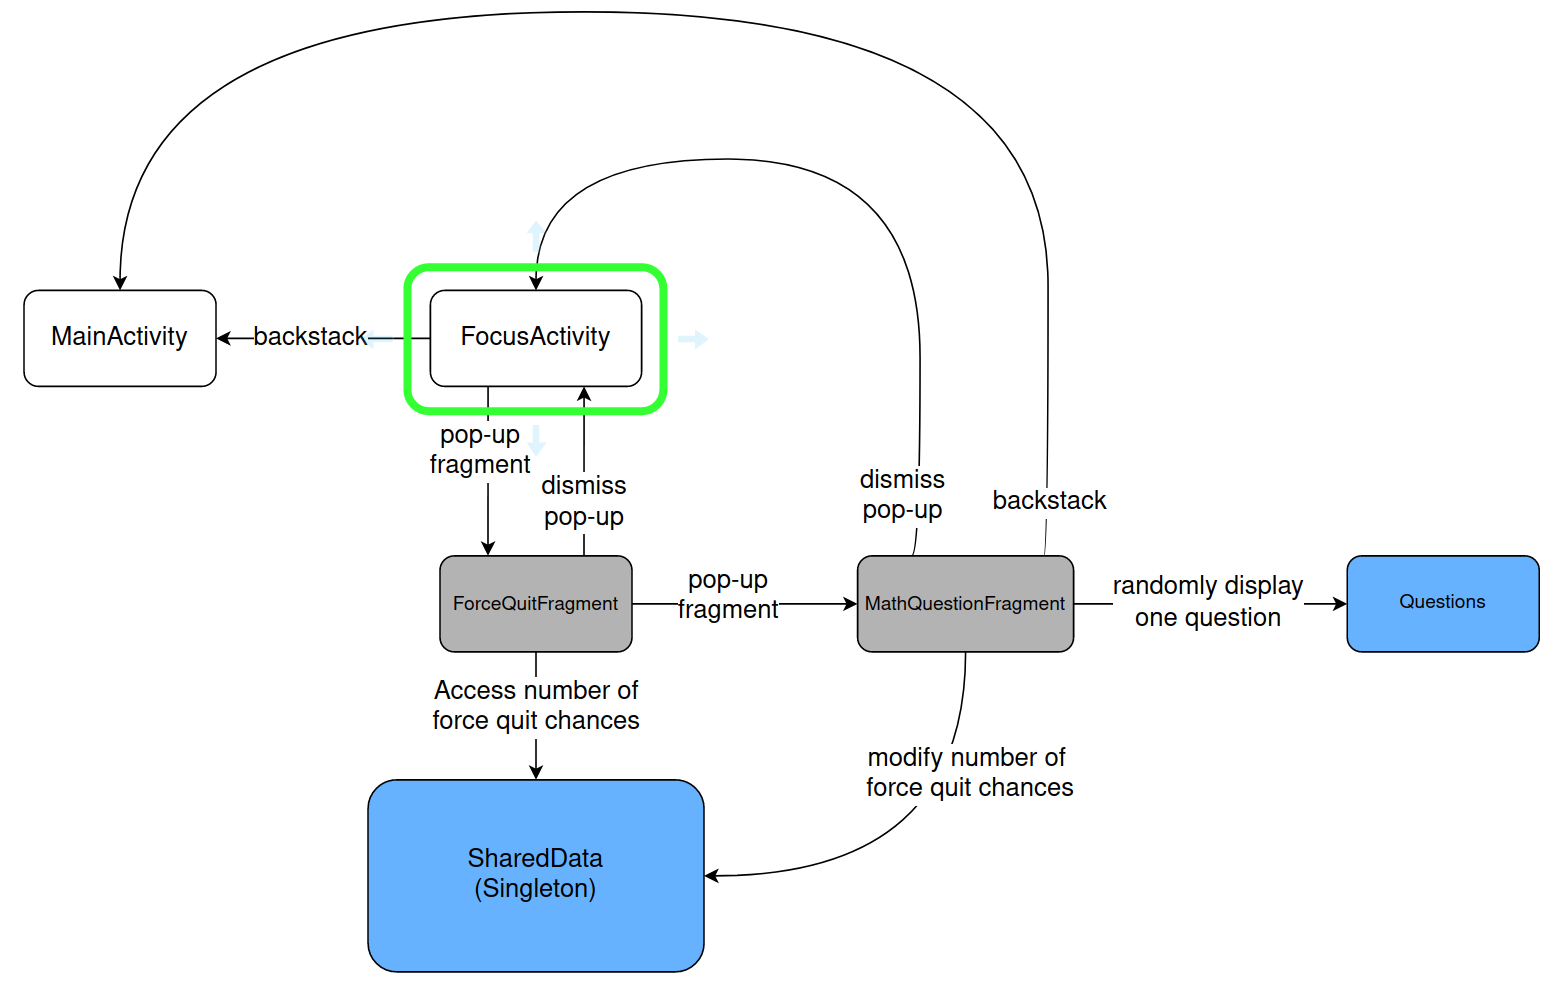
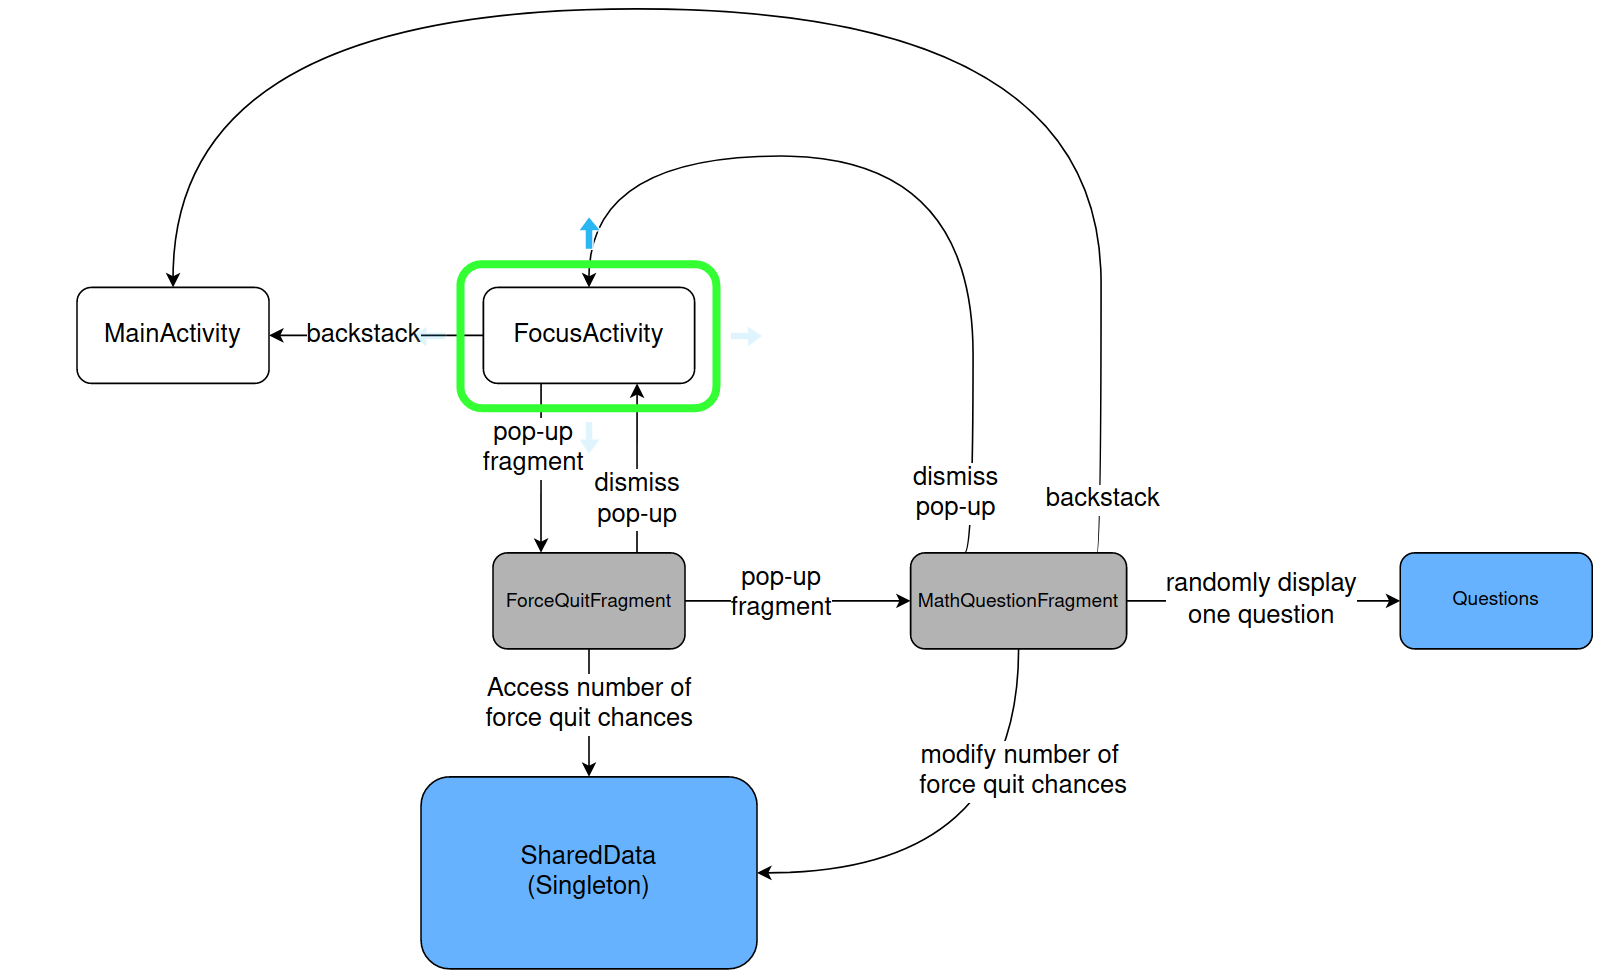
changed to higher resolution images

diff --git a/README.md b/README.md
@@ -85,7 +85,8 @@ notification will be sent to remind the user to go back.
 The diagram demonstrates how the **three states** interact with each
 other.
 
-<img src="images/start_and_finish_rest.png"/>
+
+![start and finish rest](images/start_and_finish_rest.png?raw=true "start and finish rest")
 
 ***Implementation Details:***
 
@@ -112,7 +113,7 @@ situations:
 
 The following diagram describes how the user enters focus mode.
 
-<img src="images/enter_focus.png"/>
+![enter focus mode](images/enter_focus.png?raw=true "enter focus mode")
 
 #### **Stay in Focus Mode**
 
@@ -132,16 +133,18 @@ WhitelistChooserActivity scans the phone for installed apps to allow the
 user to choose their whitelisted apps. The diagram below shows how the
 user is able to choose the whitelisted apps.
 
-<img src="images/choose_whitelisted_apps.png"/>
+[//]: # (<img src="images/choose_whitelisted_apps.png"/>)
+![choose whitelisted apps](images/choose_whitelisted_apps.png?raw=true "enter focus mode")
 
 WhitelistActivity sets up the whitelist activity for users to choose
 their whitelisted apps.
 
-<img src="images/open_whitelisted_apps.png"/>
+![open whitelisted apps](images/open_whitelisted_apps.png?raw=true "open focus mode")
 
 The system architecture follows.
 
-<img src="images/whitelist_architecture.png"/>
+[//]: # (<img src="images/whitelist_architecture.png"/>)
+![whitelist architecture](images/whitelist_architecture.png?raw=true "whitelist architecture")
 
 The timer is implemented using the Timer and TimerViewModel class. The
 former uses CountDownTimer to create the countdown sequence while the
@@ -161,11 +164,12 @@ buffer, so that they can think twice whether they really need to
 forcibly exit the focus mode. The diagram below shows how the user can exit the focus mode.
 
 
-<img src="images/exit_focus.png"/>
+![exit focus](images/exit_focus.png?raw=true "exit focus")
 
 The system architecture follows.
 
-<img src="images/exit_focus_architecture.png"/>
+[//]: # (<img src="images/exit_focus_architecture.png"/>)
+![exit_focus_architecture](images/exit_focus_architecture.png?raw=true "exit focus architecture")
 
 ###  
 
